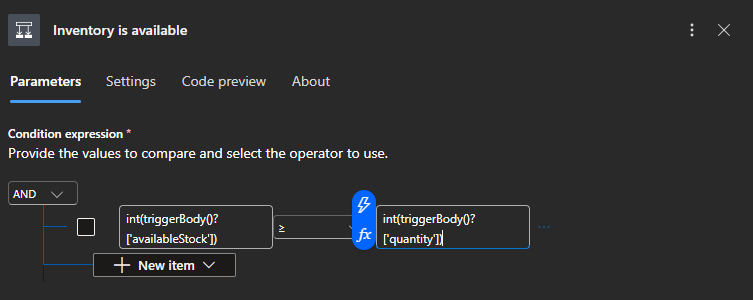
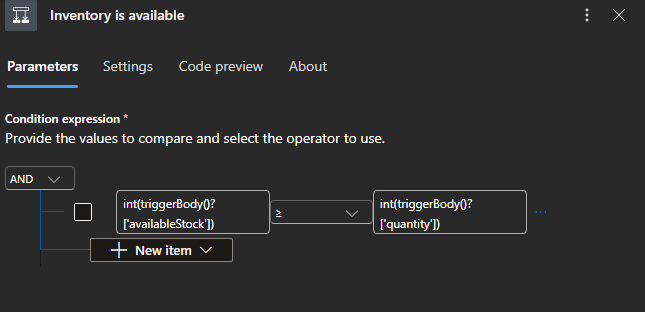
Publish workshop to Public Pages

diff --git a/labs/lab03-order-fulfillment-vscode.html b/labs/lab03-order-fulfillment-vscode.html
@@ -75,7 +75,7 @@
 )</pre><p>You do not need to add these four checks as separate condition rows. The <code>and(...)</code> expression returns one Boolean result.</p><div class="callout"><strong>Verify before continuing:</strong> <strong>Order is valid</strong> must contain the complete <code>and(...)</code> expression above. Do not use the <code>availableStock</code> versus <code>quantity</code> expression here; that comparison belongs only in the nested <strong>Inventory is available</strong> condition.</div><div class="callout"><strong>Expression, not text:</strong> If you paste the expression directly into the value box, the designer saves it as a text string, the condition is always false, and every order returns 400. Select the box, then select the <strong>fx</strong> (Expression) button, paste the expression there, and select <strong>Add</strong>. To confirm, open the condition's <strong>Code preview</strong> tab: the left value must start with <code>@and(</code>, and the right value must be <code>true</code> without quotation marks.</div>
 <details class="screenshot-toggle"><summary>View screenshot</summary>
 <figure class="media-panel">
-  <img src="../images/custom/labs/lab03/lab03-step7-vscode-codition-is-valid.png" alt="Order is valid condition with the and expression in the left value, the equals operator, and true in the right value." width="868" height="502" loading="lazy" />
+  <img src="../images/custom/labs/lab03/lab03-step7-vscode-codition-is-valid.png" alt="Order is valid condition with the and expression in the left value, the equals operator, and true in the right value." width="644" height="497" loading="lazy" />
   <figcaption>Step 2: The complete <code>and(...)</code> expression is compared to the Boolean expression <code>true</code>. Add both values through the <strong>fx</strong> Expression editor, then confirm them on the <strong>Code preview</strong> tab.</figcaption>
 </figure></details></li><li>In the <strong>False</strong> branch, add a <strong>Response</strong> action and rename it <strong>Rejected Response</strong>. Set <strong>Status Code</strong> to <code>400</code>, then copy this JSON into <strong>Body</strong>:
 <pre class="code" data-lang="json">{
@@ -96,7 +96,7 @@
 <pre class="code">int(triggerBody()?['quantity'])</pre></li></ol><p>The condition follows the <strong>True</strong> branch when available stock is at least the requested quantity; otherwise, it follows the <strong>False</strong> branch.</p>
 <details class="screenshot-toggle"><summary>View screenshot</summary>
 <figure class="media-panel">
-  <img src="../images/custom/labs/lab03/lab03-step10-vscode-codition-inventory-available.png" alt="Inventory is available condition comparing the availableStock expression with the quantity expression using is greater than or equal to." width="753" height="300" loading="lazy" />
+  <img src="../images/custom/labs/lab03/lab03-step10-vscode-codition-inventory-available.png" alt="Inventory is available condition comparing the availableStock expression with the quantity expression using is greater than or equal to." width="645" height="312" loading="lazy" />
   <figcaption>Step 4: <strong>Inventory is available</strong> checks that available stock is greater than or equal to the requested quantity. Add both values through the <strong>fx</strong> Expression editor; on the <strong>Code preview</strong> tab they must appear as <code>@int(...)</code>.</figcaption>
 </figure></details></li><li>In the inventory <strong>True</strong> branch, add <strong>Set variable</strong> and rename it <strong>Set fulfillmentStatus variable to confirmed</strong>. Select <code>fulfillmentStatus</code> for <strong>Name</strong>, and set <strong>Value</strong> to <code>confirmed</code>.
 <details class="screenshot-toggle"><summary>View screenshot</summary>
@@ -240,7 +240,7 @@ catch {
   availableStock = 3
 }</pre><p>The output should show <code>StatusCode : 400</code> and <code>ResponseBody : {"status":"rejected","reason":"Invalid order"}</code>. If the status is 400 but the body is still empty, reopen the rejected run in local run history and inspect the False-branch Response action's inputs to confirm that its Body was saved.</p><p>After each request, inspect the host terminal for the new run. You can also open the workflow's local run history from the Logic Apps extension to inspect action inputs, outputs, skipped branches, and scope status.</p></section>
 <section id="validate" class="section-card reveal"><h2>Validation Checklist</h2><ul><li>The first payload returns <code>confirmed</code>.</li><li>The second payload returns <code>manual-review</code>.</li><li>The third payload returns HTTP 400.</li><li>Each 200 response contains a unique run ID.</li><li>The failure scope remains skipped during successful tests.</li></ul><p>To exercise failure handling, temporarily add a Compose action inside Try fulfillment with an expression that fails at runtime, such as <code>int('abc')</code>, run once, confirm the 500 response, and then remove the deliberate fault.</p></section>
-<section id="troubleshoot" class="section-card reveal"><h2>Troubleshooting</h2><div class="table-wrap"><table><thead><tr><th>Symptom</th><th>Check</th></tr></thead><tbody><tr><td>F5 appears to do nothing</td><td>Save the workflow, make sure you are in the new VS Code window that contains <code>order-fulfillment-workspace</code>, then open <strong>View</strong> &gt; <strong>Terminal</strong> and check the generated task terminal for startup output.</td></tr><tr><td>Host does not start</td><td>Confirm Core Tools v4, extension prerequisites, and storage settings; start Azurite if configured.</td></tr><tr><td>Callback URL lookup fails</td><td>Confirm the workflow and trigger names match the names in <code>$managementUri</code>, and verify that the local host finished starting on port 7071. Review the host terminal for an earlier startup error.</td></tr><tr><td>A valid order (Test 1) returns 400 rejected</td><td>The <strong>Order is valid</strong> expression was saved as text. Open its <strong>Code preview</strong> tab: if the left value is <code>"and(..."</code> instead of <code>"@and(..."</code>, delete it, re-add it using the <strong>fx</strong> Expression editor, and do the same for the <strong>Inventory is available</strong> values (<code>@int(...)</code>). Save the workflow and restart the host.</td></tr><tr><td>HTTP 400 has an empty body</td><td>Open the False-branch Response action and restore its JSON Body. Save the workflow, confirm the Body remains populated, and run the rejected-order test again.</td></tr><tr><td>Designer cannot load</td><td>Open the workspace root rather than only the workflow folder, then restart the extension host.</td></tr><tr><td>Two responses try to run</td><td>Review run-after settings so success and failure responses are mutually exclusive.</td></tr></tbody></table></div></section>
+<section id="troubleshoot" class="section-card reveal"><h2>Troubleshooting</h2><div class="table-wrap"><table><thead><tr><th>Symptom</th><th>Check</th></tr></thead><tbody><tr><td>F5 appears to do nothing</td><td>Save the workflow, make sure you are in the new VS Code window that contains <code>order-fulfillment-workspace</code>, then open <strong>View</strong> &gt; <strong>Terminal</strong> and check the generated task terminal for startup output.</td></tr><tr><td>Host does not start</td><td>Confirm Core Tools v4, extension prerequisites, and storage settings; start Azurite if configured.</td></tr><tr><td>Callback URL lookup fails</td><td>Confirm the workflow and trigger names match the names in <code>$managementUri</code>, and verify that the local host finished starting on port 7071. Review the host terminal for an earlier startup error.</td></tr><tr><td>Saving shows "Failed to configure MSI permissions for connections"</td><td>You can ignore this notification in this lab. After saving, the extension tries to set up managed identity access for Azure-hosted connectors. Because you selected <strong>Skip for now</strong>, no Azure connection exists to configure. The workflow is still saved; confirm that <code>workflow.json</code> shows your latest change.</td></tr><tr><td>A valid order (Test 1) returns 400 rejected</td><td>The <strong>Order is valid</strong> expression was saved as text. Open its <strong>Code preview</strong> tab: if the left value is <code>"and(..."</code> instead of <code>"@and(..."</code>, delete it, re-add it using the <strong>fx</strong> Expression editor, and do the same for the <strong>Inventory is available</strong> values (<code>@int(...)</code>). Save the workflow and restart the host.</td></tr><tr><td>HTTP 400 has an empty body</td><td>Open the False-branch Response action and restore its JSON Body. Save the workflow, confirm the Body remains populated, and run the rejected-order test again.</td></tr><tr><td>Designer cannot load</td><td>Open the workspace root rather than only the workflow folder, then restart the extension host.</td></tr><tr><td>Two responses try to run</td><td>Review run-after settings so success and failure responses are mutually exclusive.</td></tr></tbody></table></div></section>
 <section id="cleanup" class="section-card reveal"><h2>Cleanup and References</h2><p>Stop the local host and Azurite. Delete the generated project folder if you do not need it, and remove any deployed Standard resource created while extending the lab.</p><div class="callout"><strong>Microsoft Learn:</strong> <a href="https://learn.microsoft.com/azure/logic-apps/create-single-tenant-workflows-visual-studio-code">Create Standard workflows with VS Code</a> and <a href="https://learn.microsoft.com/azure/logic-apps/logic-apps-control-flow-run-steps-group-scopes">Run actions based on scope status</a>.</div></section>
 <nav class="pager" aria-label="Lab pagination"><a class="prev" href="lab02-timer-daily-report-portal.html"><small>Previous</small><strong>&larr; Lab 02: Timer Daily Report</strong></a><a class="next" href="lab04-event-grid-blob-processor-portal.html"><small>Next</small><strong>Lab 04: Event Grid Blob Processor &rarr;</strong></a></nav>
 </main><aside class="toc" aria-label="Table of contents"><h3>On This Page</h3><a href="#scenario">Scenario</a><a href="#architecture">Design</a><a href="#prerequisites">Prerequisites</a><a href="#project">Create Project</a><a href="#build">Build</a><a href="#run">Run Locally</a><a href="#validate">Validate</a><a href="#troubleshoot">Troubleshooting</a><a href="#cleanup">Cleanup</a></aside></div>
